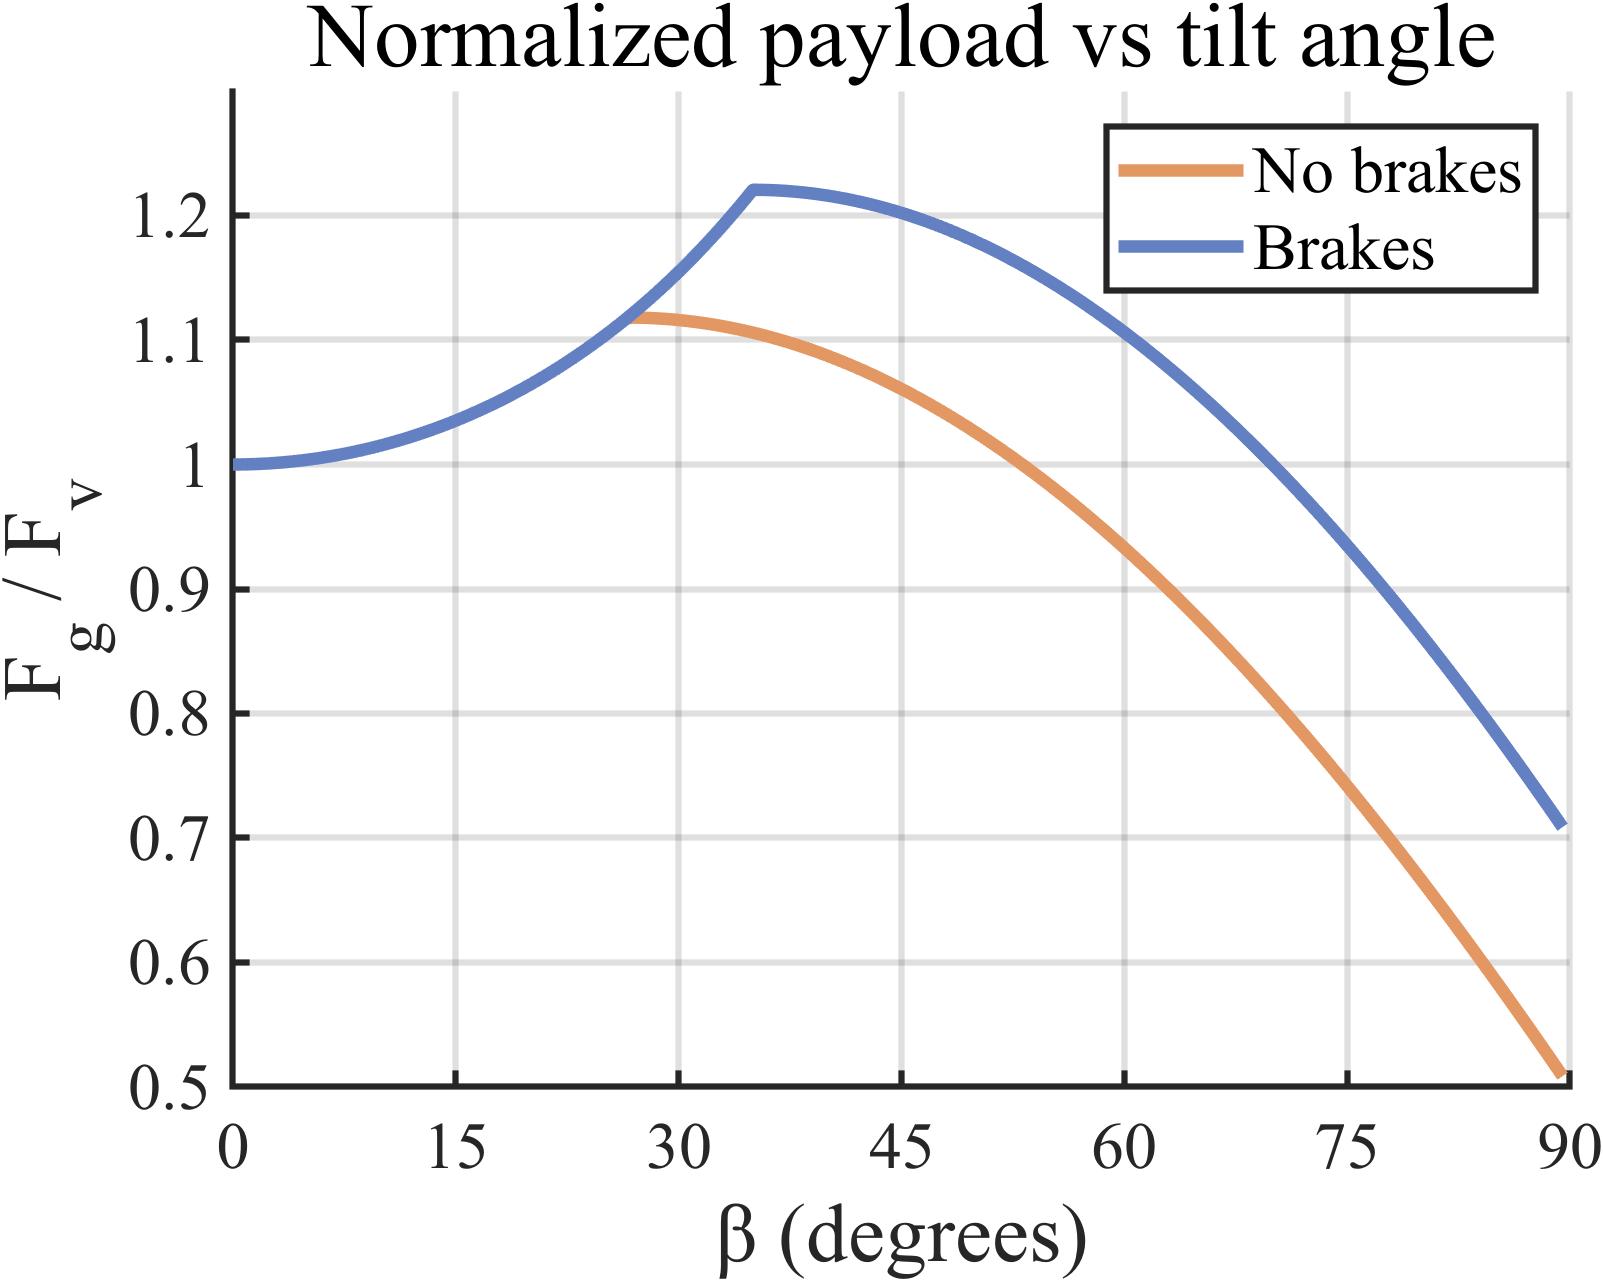
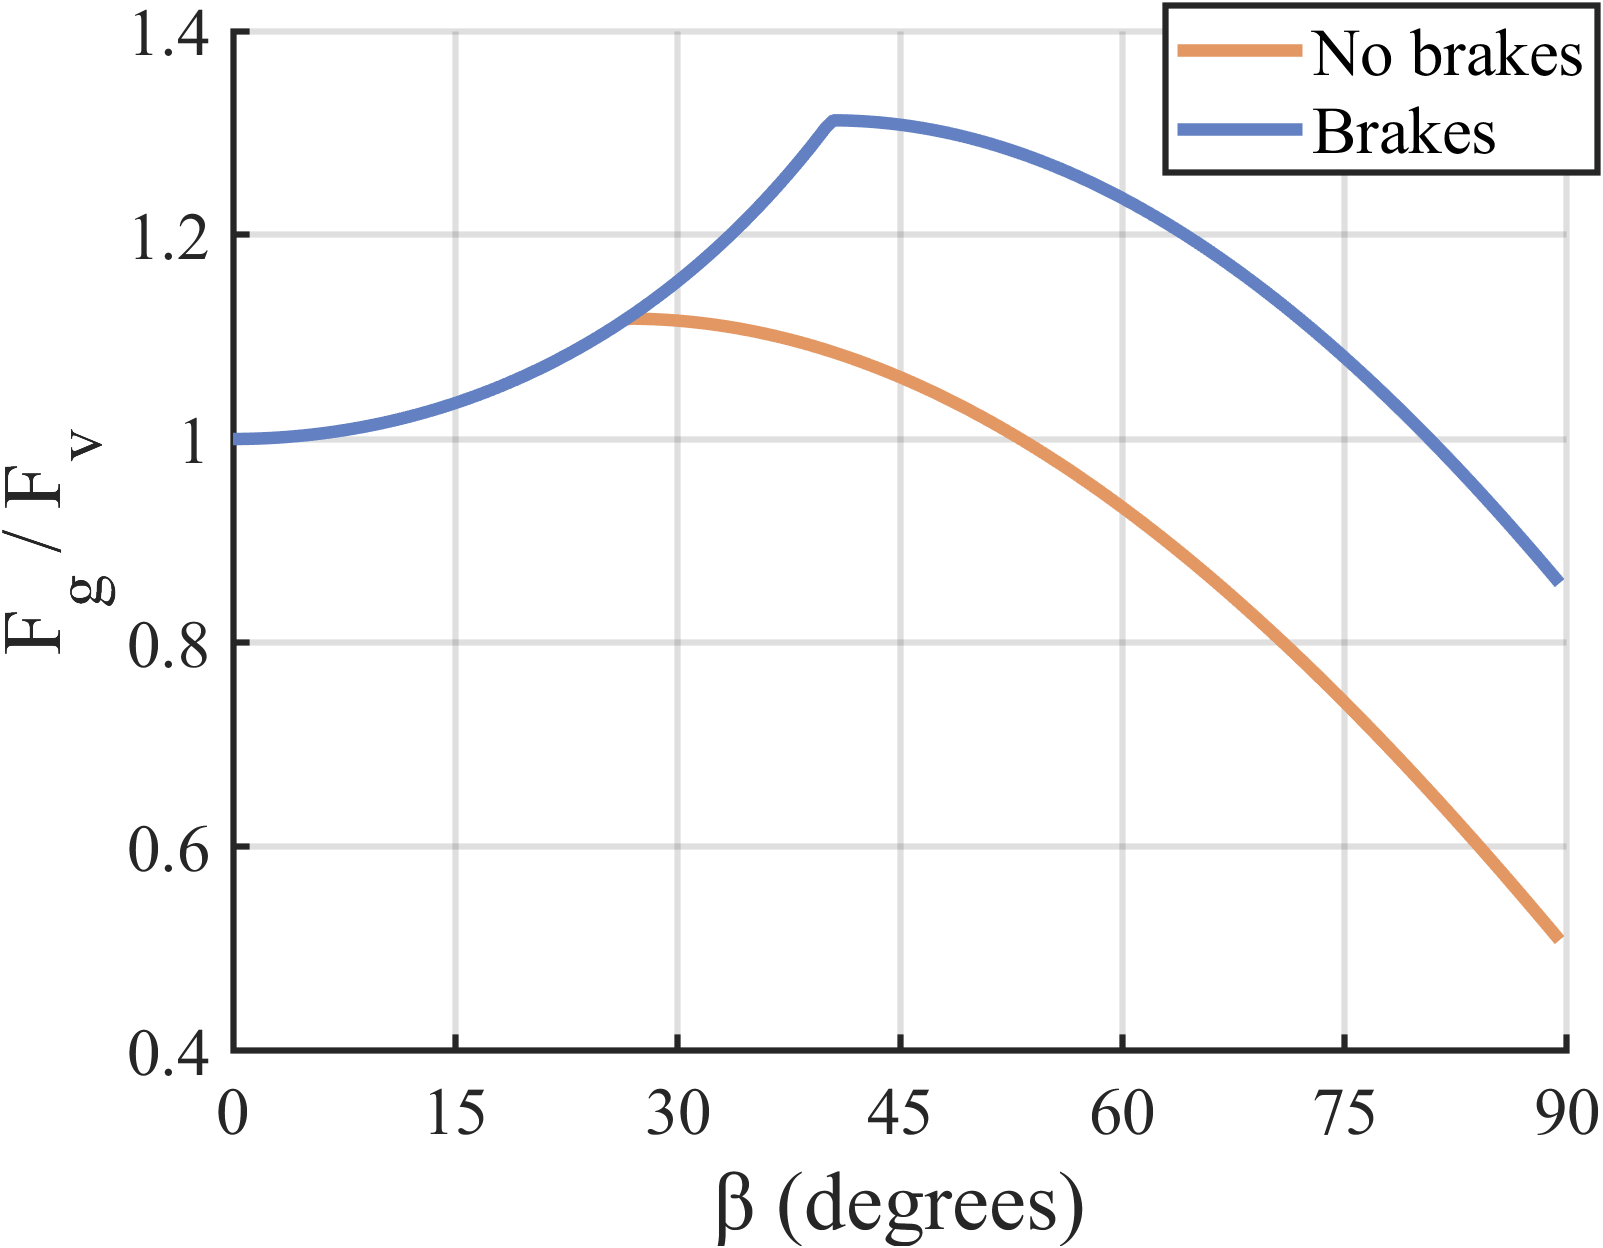
Updating payload figure

Changed region(s): [[0.0, 0.0, 1.0, 0.9375], [0.4367, 0.9375, 0.6862, 1.0], [0.4367, 0.75, 0.5303, 0.7812]]

diff --git a/statics/sym_statics.m b/statics/sym_statics.m
@@ -1,0 +1,65 @@
+close all; clear all; clc;
+
+% Numeric values based on fractal geometry
+values.s = 0.25;
+values.w = 60;
+values.h = 15;
+values.theta = deg2rad(0.01);
+values.F_v = 12;
+values.mu = 0.85;
+values.Mb_max = 0;
+
+% Output flag
+verbose = true;
+
+% Example solution
+[F_v,r,F_f, Mb] = solve_fractal_statics(verbose,values)
+
+
+%% Simulation
+thetas = deg2rad(180:-1:.01);
+F_g_list_no_brakes = zeros(size(thetas));
+F_g_list_brakes = zeros(size(thetas));
+
+% Output flag
+verbose = false;
+
+values.Mb_max = 0
+
+% No brake sweep
+for idx = 1:length(thetas)
+    values.theta = thetas(idx);
+    % No brake case
+    values.Mb_max = 0;
+    [F_g,~,~, ~] = solve_fractal_statics(verbose,values);
+    F_g_list_no_brakes(idx) = F_g;
+    % Brakes case
+    values.Mb_max = 500;
+    [F_g,~,~, ~] = solve_fractal_statics(verbose,values);
+    F_g_list_brakes(idx) = F_g;
+end
+
+%% Plotting
+figure(1); clf; hold on; grid on;
+
+ax = gca; % Get current axes
+ax.FontSize = 16; % Set font size
+ax.LineWidth = 1.5; % Set axes line width
+
+plot(rad2deg((pi-thetas)/2),F_g_list_no_brakes/(2.*values.F_v),lineWidth = 3,color="#E39762")
+plot(rad2deg((pi-thetas)/2),F_g_list_brakes/(2.*values.F_v),lineWidth = 3,color="#6280C2")
+xlim([0,90])
+ylim([0.4,1.4])
+xticks(0:15:90)
+
+lg = legend(["No brakes","Brakes"],'FontName', 'Times New Roman','fontSize',16);
+lg.FontSize = 16;
+% t = title("Normalized payload vs tilt angle",'fontSize',22)
+% set(t, 'FontWeight', 'normal');
+xlabel("β (degrees)",'FontName', 'Times New Roman','fontSize',20)
+ylabel("F_g / F_v",'FontName', 'Times New Roman','fontSize',20)
+set(gca, 'FontName', 'Times New Roman');
+
+
+
+% exportgraphics(gcf,'../figures/payload-comparison.png','Resolution',300)
